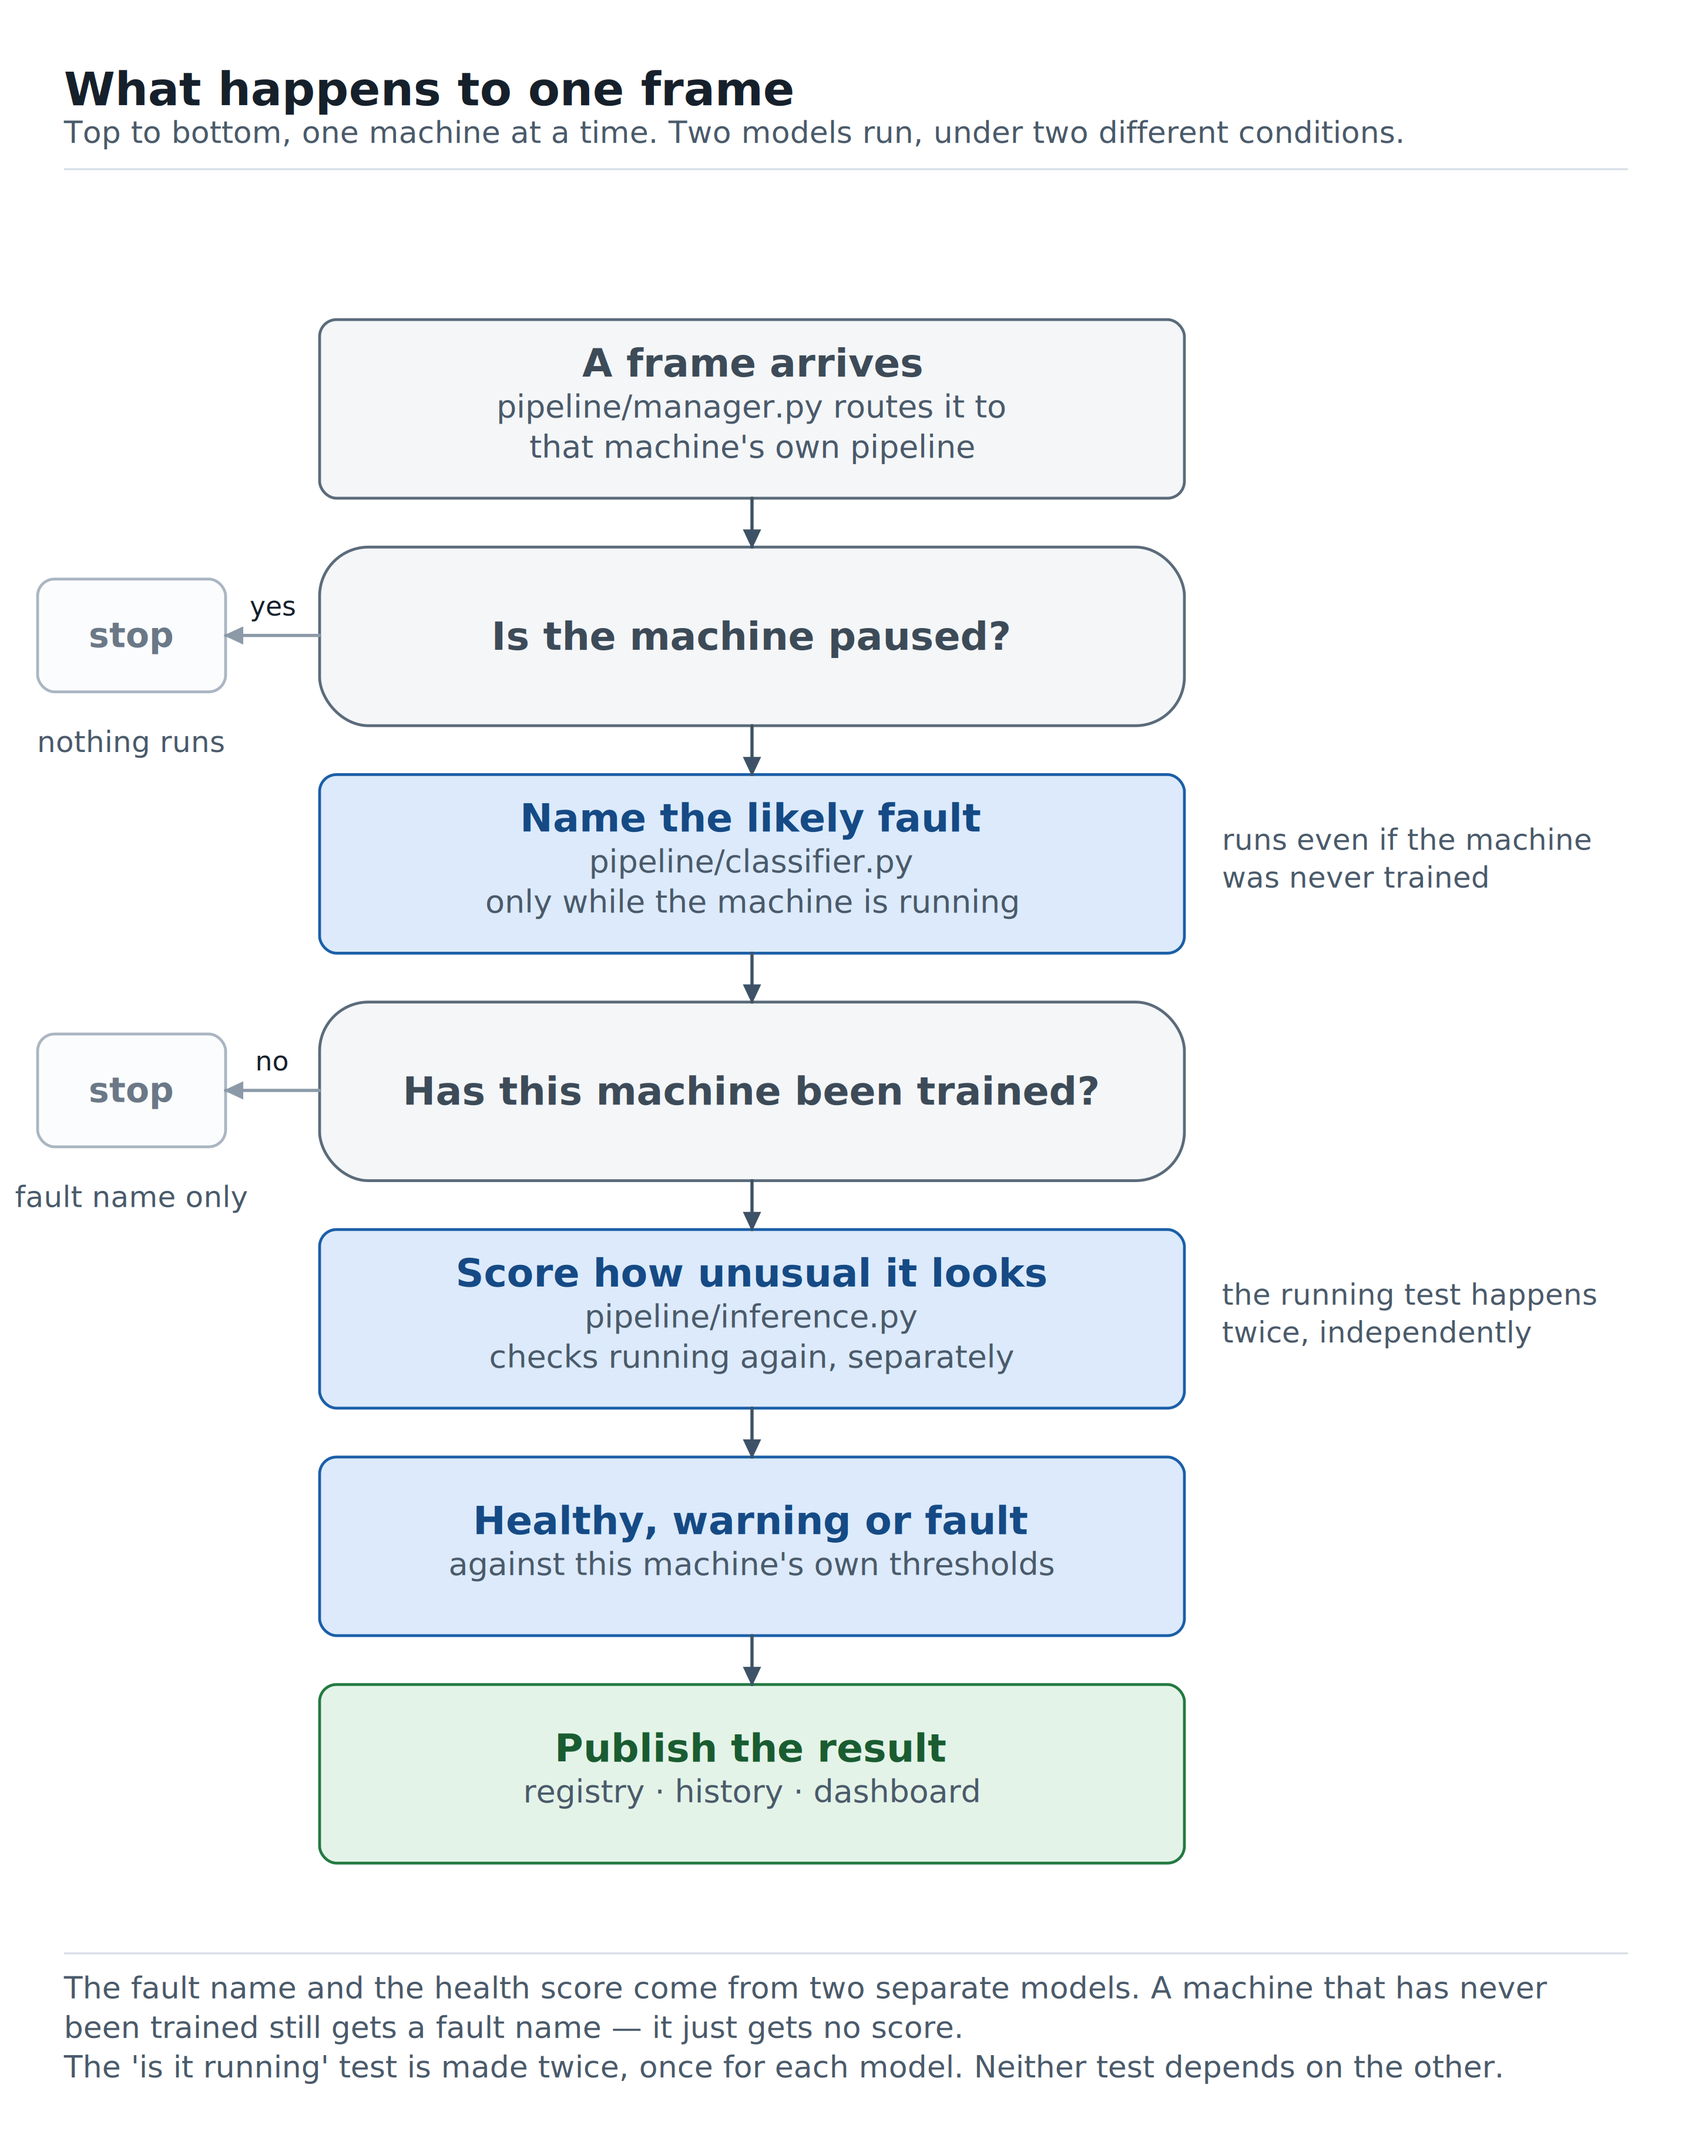
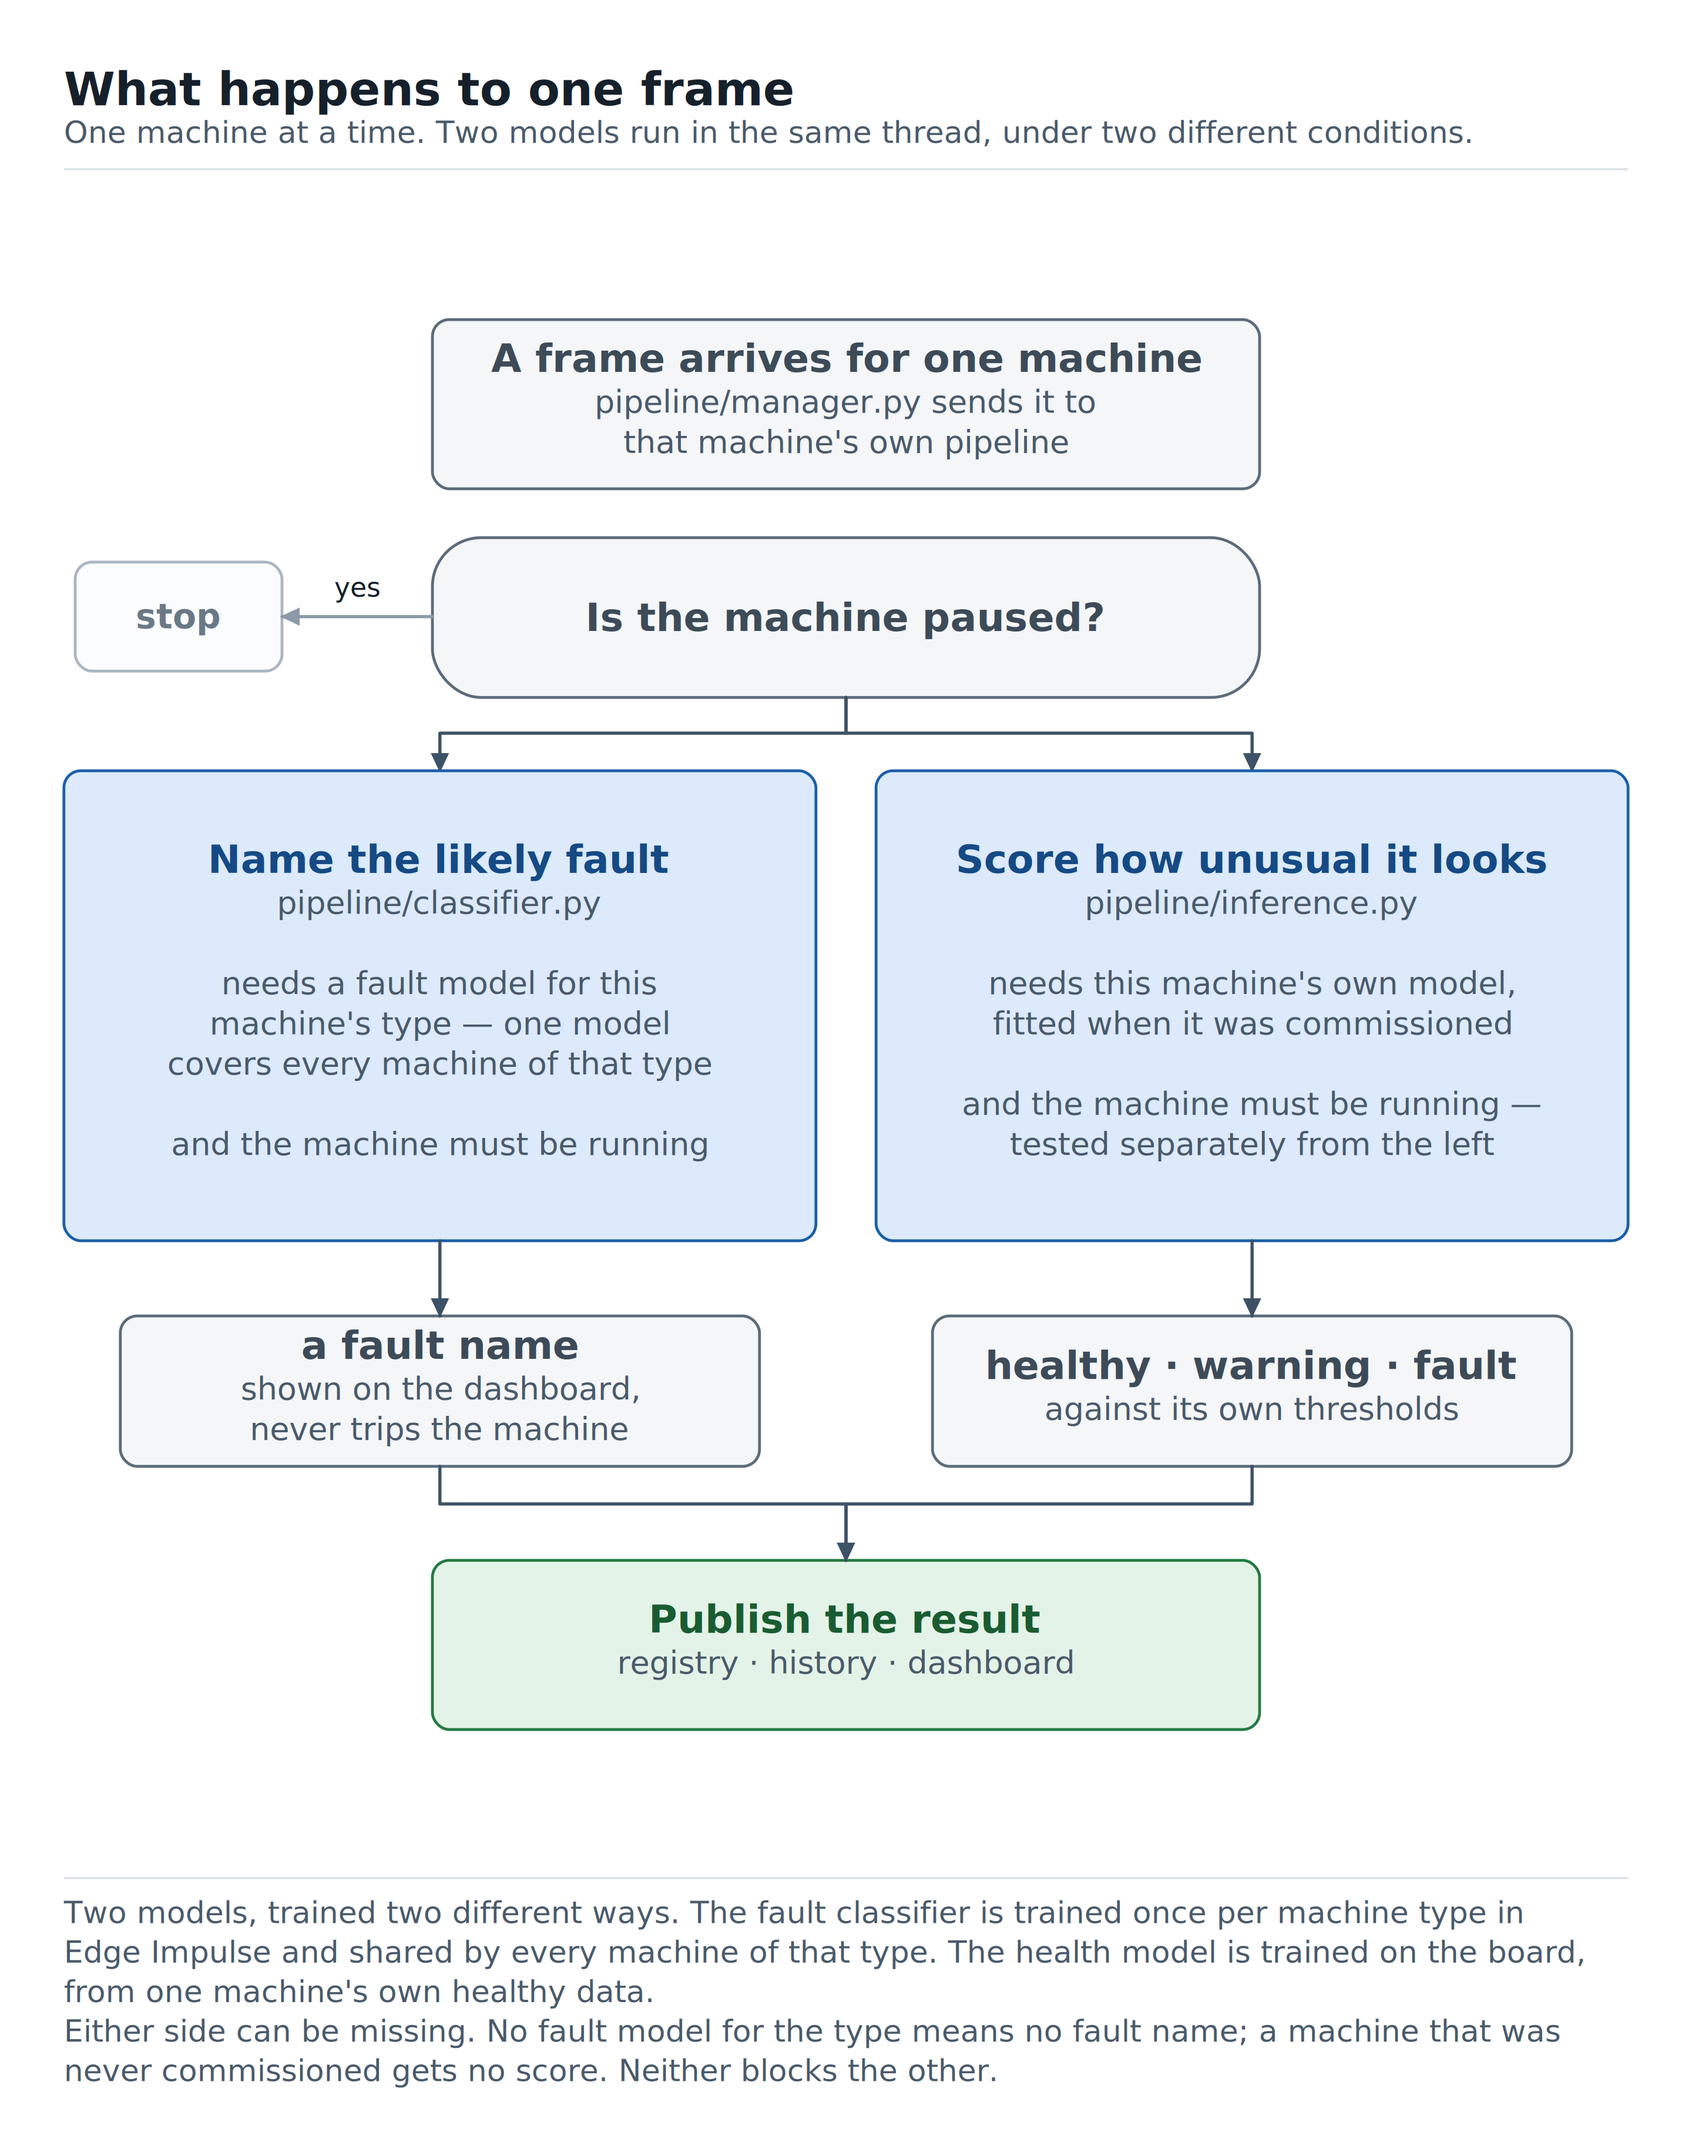
diagrams: fix 15d — the classifier needs a model too, just not this machine's
The previous version said the fault classifier "runs even if the machine
was never trained". That conflated two different trainings and was wrong
as drawn: it implied classification is unconditional.

There are two models with two scopes. The fault classifier needs a fetched
Edge Impulse model for the machine's *type* (device_type), shared by every
machine of that type -- manager.py's _maybe_classify returns early without
one. The health score needs *this machine's own* model, fitted during its
commissioning. What the classifier does not need is the second of those.

Redrawn as two lanes, each stating its own requirements, rejoining at
publish. That also drops the false implication that one gates the other:
either side can be absent without blocking the other.

diff --git a/report/diagrams/gen/d15_code_structure.py b/report/diagrams/gen/d15_code_structure.py
@@ -162,63 +162,69 @@ save(c, "15c-linux-packages", scale=SCALE)
 
 # ================================================= 15d -- one frame's journey
 
-# What actually runs, in plain language. The two claims this figure exists to
-# make: the fault classifier runs before, and independently of, the health
-# score; and the "is it running" test is applied twice, by two separate gates.
+# Two models, two different trainings, two independent sets of conditions:
+#   * the fault classifier needs a model for the machine's *type* (one Edge
+#     Impulse model shared by every machine of that type) -- manager.py's
+#     _maybe_classify checks device_type, then the registry for a fetched
+#     model, then its own gate.
+#   * the health score needs *this machine's own* model, fitted during its
+#     commissioning, and re-tests running through a second gate instance.
+# Either side can be absent without blocking the other, which is why they are
+# drawn as two lanes rather than one chain.
 c = Canvas(
-    900, 1120,
+    900, 1080,
     title="What happens to one frame",
-    subtitle="Top to bottom, one machine at a time. Two models run, under two different conditions.",
+    subtitle="One machine at a time. Two models run in the same thread, under two different conditions.",
     footnotes=[
-        ("The fault name and the health score come from two separate models. A machine that "
-         "has never been trained still gets a fault name — it just gets no score.", None),
-        ("The 'is it running' test is made twice, once for each model. Neither test depends "
-         "on the other.", None),
+        ("Two models, trained two different ways. The fault classifier is trained once per machine "
+         "type in Edge Impulse and shared by every machine of that type. The health model is trained "
+         "on the board, from one machine's own healthy data.", None),
+        ("Either side can be missing. No fault model for the type means no fault name; a machine that "
+         "was never commissioned gets no score. Neither blocks the other.", None),
     ],
 )
 
-c.box(170, 170, 460, 95, "A frame arrives",
-      ["pipeline/manager.py routes it to", "that machine's own pipeline"],
+c.box(230, 170, 440, 90, "A frame arrives for one machine",
+      ["pipeline/manager.py sends it to", "that machine's own pipeline"],
       role="neutral", title_size=TITLE, body_size=BODY)
 
-c.box(170, 291, 460, 95, "Is the machine paused?",
+c.box(230, 286, 440, 85, "Is the machine paused?",
       role="neutral", title_size=TITLE, rx=26)
+c.box(40, 299, 110, 58, "stop", role="ghost", title_size=TITLE - 2)
+c.link([(230, 328), (150, 328)], label="yes", kind="arrowSoft")
 
-c.box(170, 412, 460, 95, "Name the likely fault",
-      ["pipeline/classifier.py", "only while the machine is running"],
+c.link([(450, 371), (450, 390), (234, 390), (234, 410)])
+c.link([(450, 371), (450, 390), (666, 390), (666, 410)])
+
+c.box(34, 410, 400, 250, "Name the likely fault",
+      ["pipeline/classifier.py", "",
+       "needs a fault model for this", "machine's type — one model",
+       "covers every machine of that type", "",
+       "and the machine must be running"],
       role="brain", title_size=TITLE, body_size=BODY)
 
-c.box(170, 533, 460, 95, "Has this machine been trained?",
-      role="neutral", title_size=TITLE, rx=26)
-
-c.box(170, 654, 460, 95, "Score how unusual it looks",
-      ["pipeline/inference.py", "checks running again, separately"],
+c.box(466, 410, 400, 250, "Score how unusual it looks",
+      ["pipeline/inference.py", "",
+       "needs this machine's own model,", "fitted when it was commissioned", "",
+       "and the machine must be running —", "tested separately from the left"],
       role="brain", title_size=TITLE, body_size=BODY)
 
-c.box(170, 775, 460, 95, "Healthy, warning or fault",
-      ["against this machine's own thresholds"],
-      role="brain", title_size=TITLE, body_size=BODY)
+c.box(64, 700, 340, 80, "a fault name",
+      ["shown on the dashboard,", "never trips the machine"],
+      role="neutral", title_size=TITLE, body_size=BODY)
+c.box(496, 700, 340, 80, "healthy · warning · fault",
+      ["against its own thresholds"],
+      role="neutral", title_size=TITLE, body_size=BODY)
 
-c.box(170, 896, 460, 95, "Publish the result",
+c.link([(234, 660), (234, 700)])
+c.link([(666, 660), (666, 700)])
+
+c.box(230, 830, 440, 90, "Publish the result",
       ["registry · history · dashboard"],
       role="tell", title_size=TITLE, body_size=BODY)
 
-for y in (170, 291, 412, 533, 654, 775):
-    c.link([(400, y + 95), (400, y + 121)])
-
-c.box(20, 308, 100, 60, "stop", role="ghost", title_size=TITLE - 2)
-c.link([(170, 338), (120, 338)], label="yes", kind="arrowSoft")
-
-c.box(20, 550, 100, 60, "stop", role="ghost", title_size=TITLE - 2)
-c.link([(170, 580), (120, 580)], label="no", kind="arrowSoft")
-
-c.lines(650, 452, ["runs even if the machine", "was never trained"],
-        size=BODY - 1, anchor="start", fill=INK_SOFT)
-c.lines(650, 694, ["the running test happens", "twice, independently"],
-        size=BODY - 1, anchor="start", fill=INK_SOFT)
-
-c.text(70, 400, "nothing runs", size=BODY - 1, anchor="middle", fill=INK_SOFT)
-c.text(70, 642, "fault name only", size=BODY - 1, anchor="middle", fill=INK_SOFT)
+c.link([(234, 780), (234, 800), (450, 800), (450, 830)])
+c.link([(666, 780), (666, 800), (450, 800), (450, 830)])
 
 save(c, "15d-frame-journey", scale=SCALE)
 
